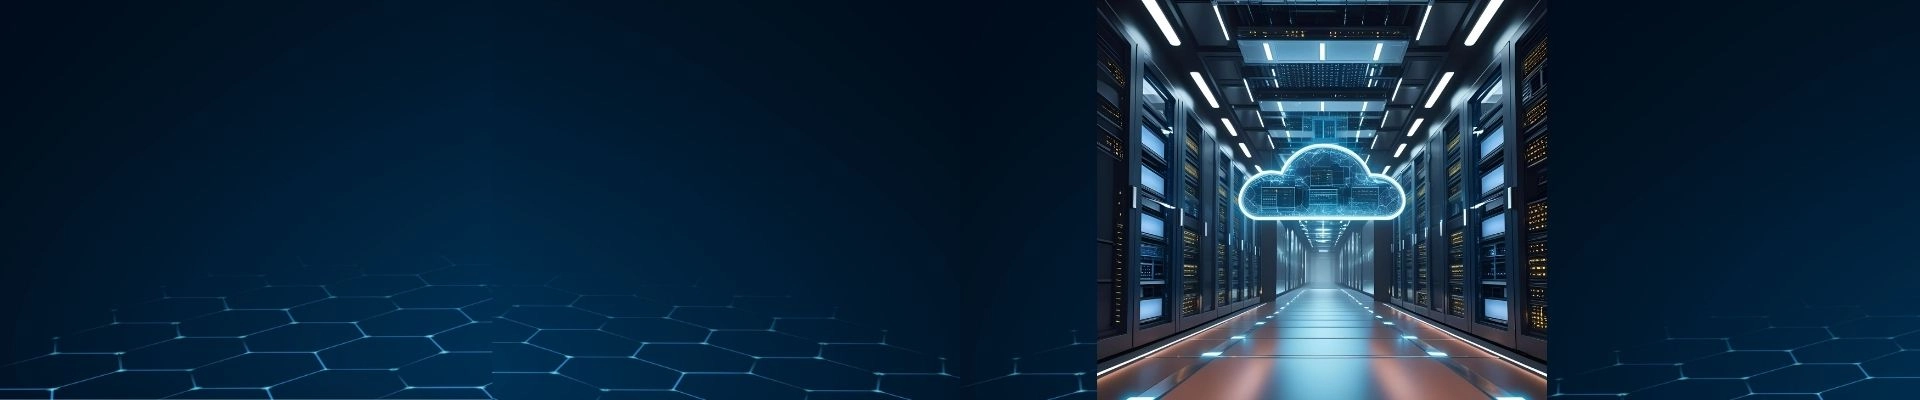
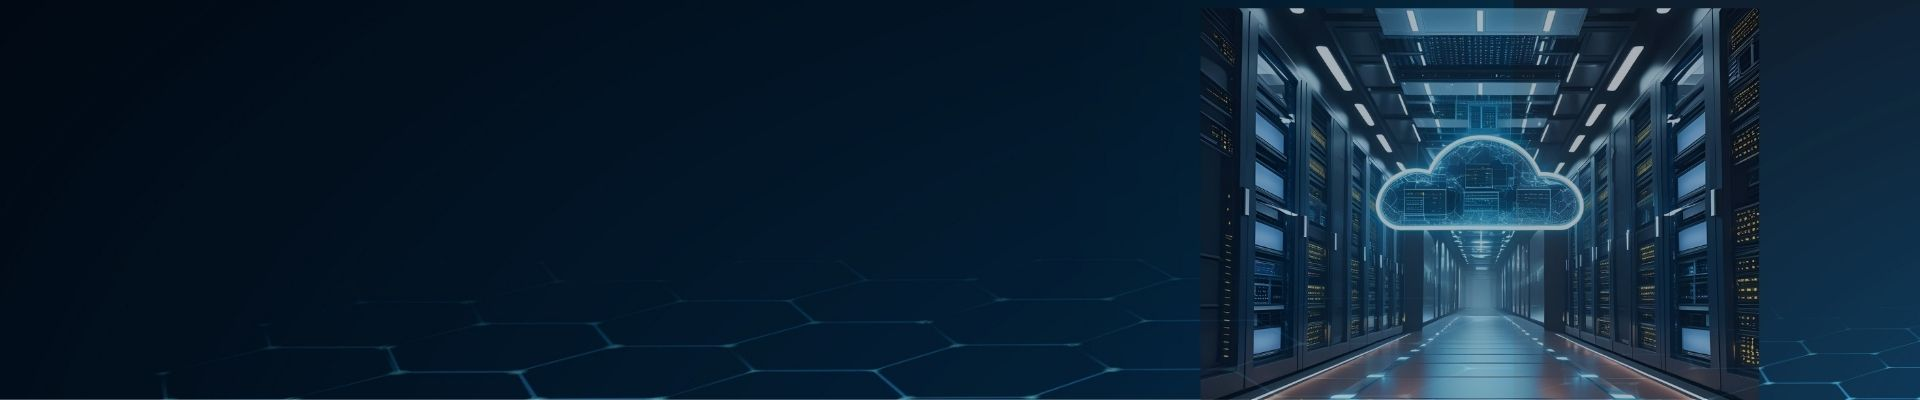
Update solution pages and hero images: Added new hero images for Fintech, updated hero images for Business Continuity, Cloud Infrastructure, and GRC pages, and fixed image paths in solution pages

diff --git a/src/app/solutions/business-continuity/page.tsx b/src/app/solutions/business-continuity/page.tsx
@@ -68,6 +68,20 @@ export default function BusinessContinuityPage() {
     <main className="min-h-screen">
       {/* Hero Section */}
       <section className="relative h-[320px] md:h-[400px] w-[750px] md:w-[1920px] max-w-full bg-[#0a192f] flex items-center justify-start mx-auto">
+        <Image
+          src="/images/solutions/solution-pages/hero-business-continiuty-desktop.webp"
+          alt="Business Continuity Hero"
+          fill
+          className="object-cover hidden md:block"
+          priority
+        />
+        <Image
+          src="/images/solutions/solution-pages/hero-business-continiuty-mobile.webp"
+          alt="Business Continuity Hero"
+          fill
+          className="object-cover md:hidden"
+          priority
+        />
         <div className="container mx-auto px-4 flex flex-col justify-center h-full">
           <div className="relative z-20 flex flex-col items-center md:items-start justify-center w-full h-full text-center md:text-left max-w-2xl mx-auto md:mx-0 md:pl-4 sm:md:pl-8 md:ml-[60px]">
             <h1 className="text-3xl sm:text-4xl md:text-5xl font-bold text-[#FFF9C4] mb-4 mt-[1em] w-full max-w-full md:whitespace-nowrap">

diff --git a/src/app/solutions/grc/page.tsx b/src/app/solutions/grc/page.tsx
@@ -76,6 +76,20 @@ export default function GRCPage() {
     <main className="min-h-screen">
       {/* Hero Section */}
       <section className="relative h-[320px] md:h-[400px] w-[750px] md:w-[1920px] max-w-full bg-[#0a192f] flex items-center justify-start mx-auto">
+        <Image
+          src="/images/solutions/solution-pages/hero-gov-risk-desktop.webp"
+          alt="Governance, Risk & Compliance Hero"
+          fill
+          className="object-cover hidden md:block"
+          priority
+        />
+        <Image
+          src="/images/solutions/solution-pages/hero-gov-risk-mobile.webp"
+          alt="Governance, Risk & Compliance Hero"
+          fill
+          className="object-cover md:hidden"
+          priority
+        />
         <div className="container mx-auto px-4 flex flex-col justify-center h-full">
           <div className="relative z-20 flex flex-col items-center md:items-start justify-center w-full h-full text-center md:text-left max-w-2xl mx-auto md:mx-0 md:pl-4 sm:md:pl-8 md:ml-[60px]">
             <h1 className="text-3xl sm:text-4xl md:text-5xl font-bold text-[#FFF9C4] mb-4 mt-[1em] w-full max-w-full md:whitespace-nowrap">

diff --git a/src/app/solutions/cloud-infrastructure/page.tsx b/src/app/solutions/cloud-infrastructure/page.tsx
@@ -68,6 +68,20 @@ export default function CloudInfrastructurePage() {
     <main className="min-h-screen">
       {/* Hero Section */}
       <section className="relative h-[320px] md:h-[400px] w-[750px] md:w-[1920px] max-w-full bg-[#0a192f] flex items-center justify-start mx-auto">
+        <Image
+          src="/images/solutions/solution-pages/hero-cloud-desktop.webp"
+          alt="Cloud & Infrastructure Hero"
+          fill
+          className="object-cover hidden md:block"
+          priority
+        />
+        <Image
+          src="/images/solutions/solution-pages/hero-cloud-mobile.webp"
+          alt="Cloud & Infrastructure Hero"
+          fill
+          className="object-cover md:hidden"
+          priority
+        />
         <div className="container mx-auto px-4 flex flex-col justify-center h-full">
           <div className="relative z-20 flex flex-col items-center md:items-start justify-center w-full h-full text-center md:text-left max-w-2xl mx-auto md:mx-0 md:pl-4 sm:md:pl-8 md:ml-[60px]">
             <h1 className="text-3xl sm:text-4xl md:text-5xl font-bold text-[#FFF9C4] mb-4 mt-[1em] w-full max-w-full md:whitespace-nowrap">

diff --git a/src/app/solutions/fintech/page.tsx b/src/app/solutions/fintech/page.tsx
@@ -76,6 +76,20 @@ export default function FintechPage() {
     <main className="min-h-screen">
       {/* Hero Section */}
       <section className="relative h-[320px] md:h-[400px] w-[750px] md:w-[1920px] max-w-full bg-[#0a192f] flex items-center justify-start mx-auto">
+        <Image
+          src="/images/solutions/solution-pages/hero-fintech-desktop.webp"
+          alt="Financial Technology Hero"
+          fill
+          className="object-cover hidden md:block"
+          priority
+        />
+        <Image
+          src="/images/solutions/solution-pages/hero-fintech-mobile.webp"
+          alt="Financial Technology Hero"
+          fill
+          className="object-cover md:hidden"
+          priority
+        />
         <div className="container mx-auto px-4 flex flex-col justify-center h-full">
           <div className="relative z-20 flex flex-col items-center md:items-start justify-center w-full h-full text-center md:text-left max-w-2xl mx-auto md:mx-0 md:pl-4 sm:md:pl-8 md:ml-[60px]">
             <h1 className="text-3xl sm:text-4xl md:text-5xl font-bold text-[#FFF9C4] mb-4 mt-[1em] w-full max-w-full md:whitespace-nowrap">
